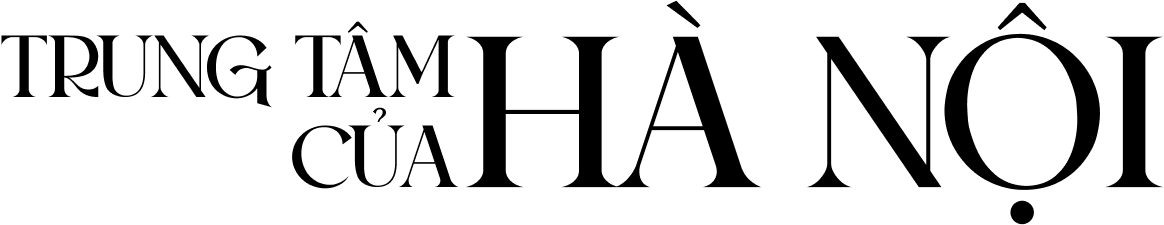
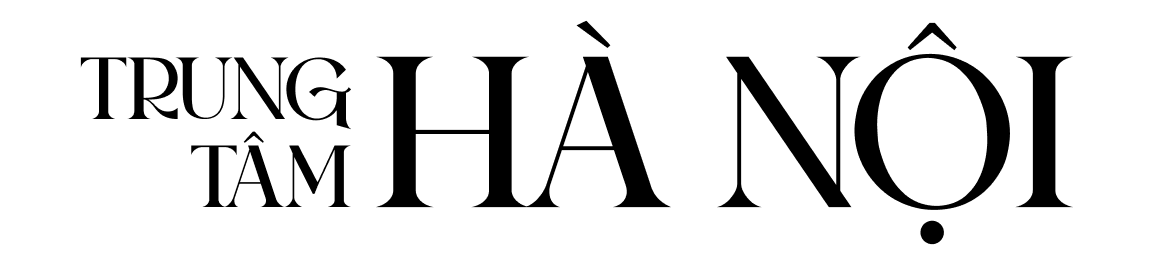
update_translate_vn

diff --git a/views/home/components/about-us.html b/views/home/components/about-us.html
@@ -21,7 +21,7 @@
                     <!-- <img src="{{site}}/static/img/about-us/shape-hanoicentre.png" alt="shape triangle city"> -->
                     <span data-key="hanoi_centre">Hanoi<br>Centre</span>
                 </div>
-                <span class="title-triangle">Hanoi Centre</span>
+                <span class="title-triangle" data-key="hanoi_centre">Hanoi Centre</span>
             </a>
             <a class="group-shape group-shape-2"  href="#popup1" data-slide="2" title="Our Shoppers">
                 <div class="triangle-2 hang-animation-1">
@@ -31,7 +31,7 @@
                     </picture>
                     <span data-key="our_shoppers">Our<br>Shoppers</span>
                 </div>
-                <span class="title-triangle">Our Shoppers</span>
+                <span class="title-triangle" data-key="our_shoppers">Our Shoppers</span>
             </a>
     
             <a class="group-shape group-shape-3"  href="#popup1" data-slide="1" title="Complex">
@@ -42,7 +42,7 @@
                     </picture>
                     <span data-key="complex_factsheet">Complex<br>Factsheet</span>
                 </div>
-                <span class="title-triangle">Complex Factsheet</span>
+                <span class="title-triangle" data-key="complex_factsheet_m">Complex Factsheet</span>
             </a>
         </div>
         <div class="container-mini-shape">

diff --git a/public/js/apps.js b/public/js/apps.js
@@ -430,10 +430,10 @@ function initializeSwiperAboutUs() {
 // Swiper - GALLERY
 function initializeSwiperGallery() {
   var swiper = new Swiper(".mySwiper-block", {
-    // autoplay: {
-    //   delay: 8000,
-    // },
-    // speed: 1300,
+    autoplay: {
+      delay: 8000,
+    },
+    speed: 1300,
     pagination: {
       el: ".swiper-pagination-au",
       clickable: true,
@@ -793,7 +793,7 @@ function getLanguage(language) {
     }
   };
 
-  // request.send(); // Mở translate Ngôn ngữ
+  request.send(); // Mở translate Ngôn ngữ
 }
 
 // Highlight nav-bar

diff --git a/public/css/about-us-our-shoppers.css b/public/css/about-us-our-shoppers.css
@@ -34,15 +34,15 @@
     font-family: 'SVN-WylieVoigen';
     font-size: 8em;
     font-weight: 400;
-    line-height: 1.5;
+    line-height: 1.1;
     text-align: left;
     text-underline-position: from-font;
     text-decoration-skip-ink: none;
-    padding: 0.7em 0 0 0.6em;
+    padding: 0.7em 0 0.2em 0.6em;
     margin-bottom: 0.2em;
     overflow: hidden;
     position: relative;
-    white-space: nowrap;
+    /* white-space: nowrap; */
 }
 .our-shoppers__title::after {
     position: absolute;

diff --git a/public/css/parallax-section.css b/public/css/parallax-section.css
@@ -89,7 +89,7 @@
     font-family: 'SVN-WylieVoigen';
     font-size: 8em;
     font-weight: 400;
-    line-height: var(--line-height);
+    line-height: 1.2;
     text-align: left;
     text-underline-position: from-font;
     text-decoration-skip-ink: none;

diff --git a/public/css/about-us-hanoicentre.css b/public/css/about-us-hanoicentre.css
@@ -40,7 +40,7 @@
     text-decoration-skip-ink: none;
     padding: 0.7em 0 0 0.6em;;
     margin-bottom: 0.5em;
-    overflow: hidden;
+    /* overflow: hidden; */
     position: relative;
     white-space: nowrap;
 }

diff --git a/public/css/map-section.css b/public/css/map-section.css
@@ -31,7 +31,7 @@
     padding: 0.7em 0 0 0.6em;
     overflow: hidden;
     position: relative;
-    white-space: nowrap;
+    /* white-space: nowrap; */
 }
 .title-map::after{
     position: absolute;

diff --git a/public/css/slide-show-block.css b/public/css/slide-show-block.css
@@ -277,7 +277,8 @@
 }
 
 .block-b .gallery__text-large {
-    line-height: var(--line-height-s);
+    line-height: 1.1;
+    padding-bottom: 0.2em;
 }
 
 /* Block - C */
